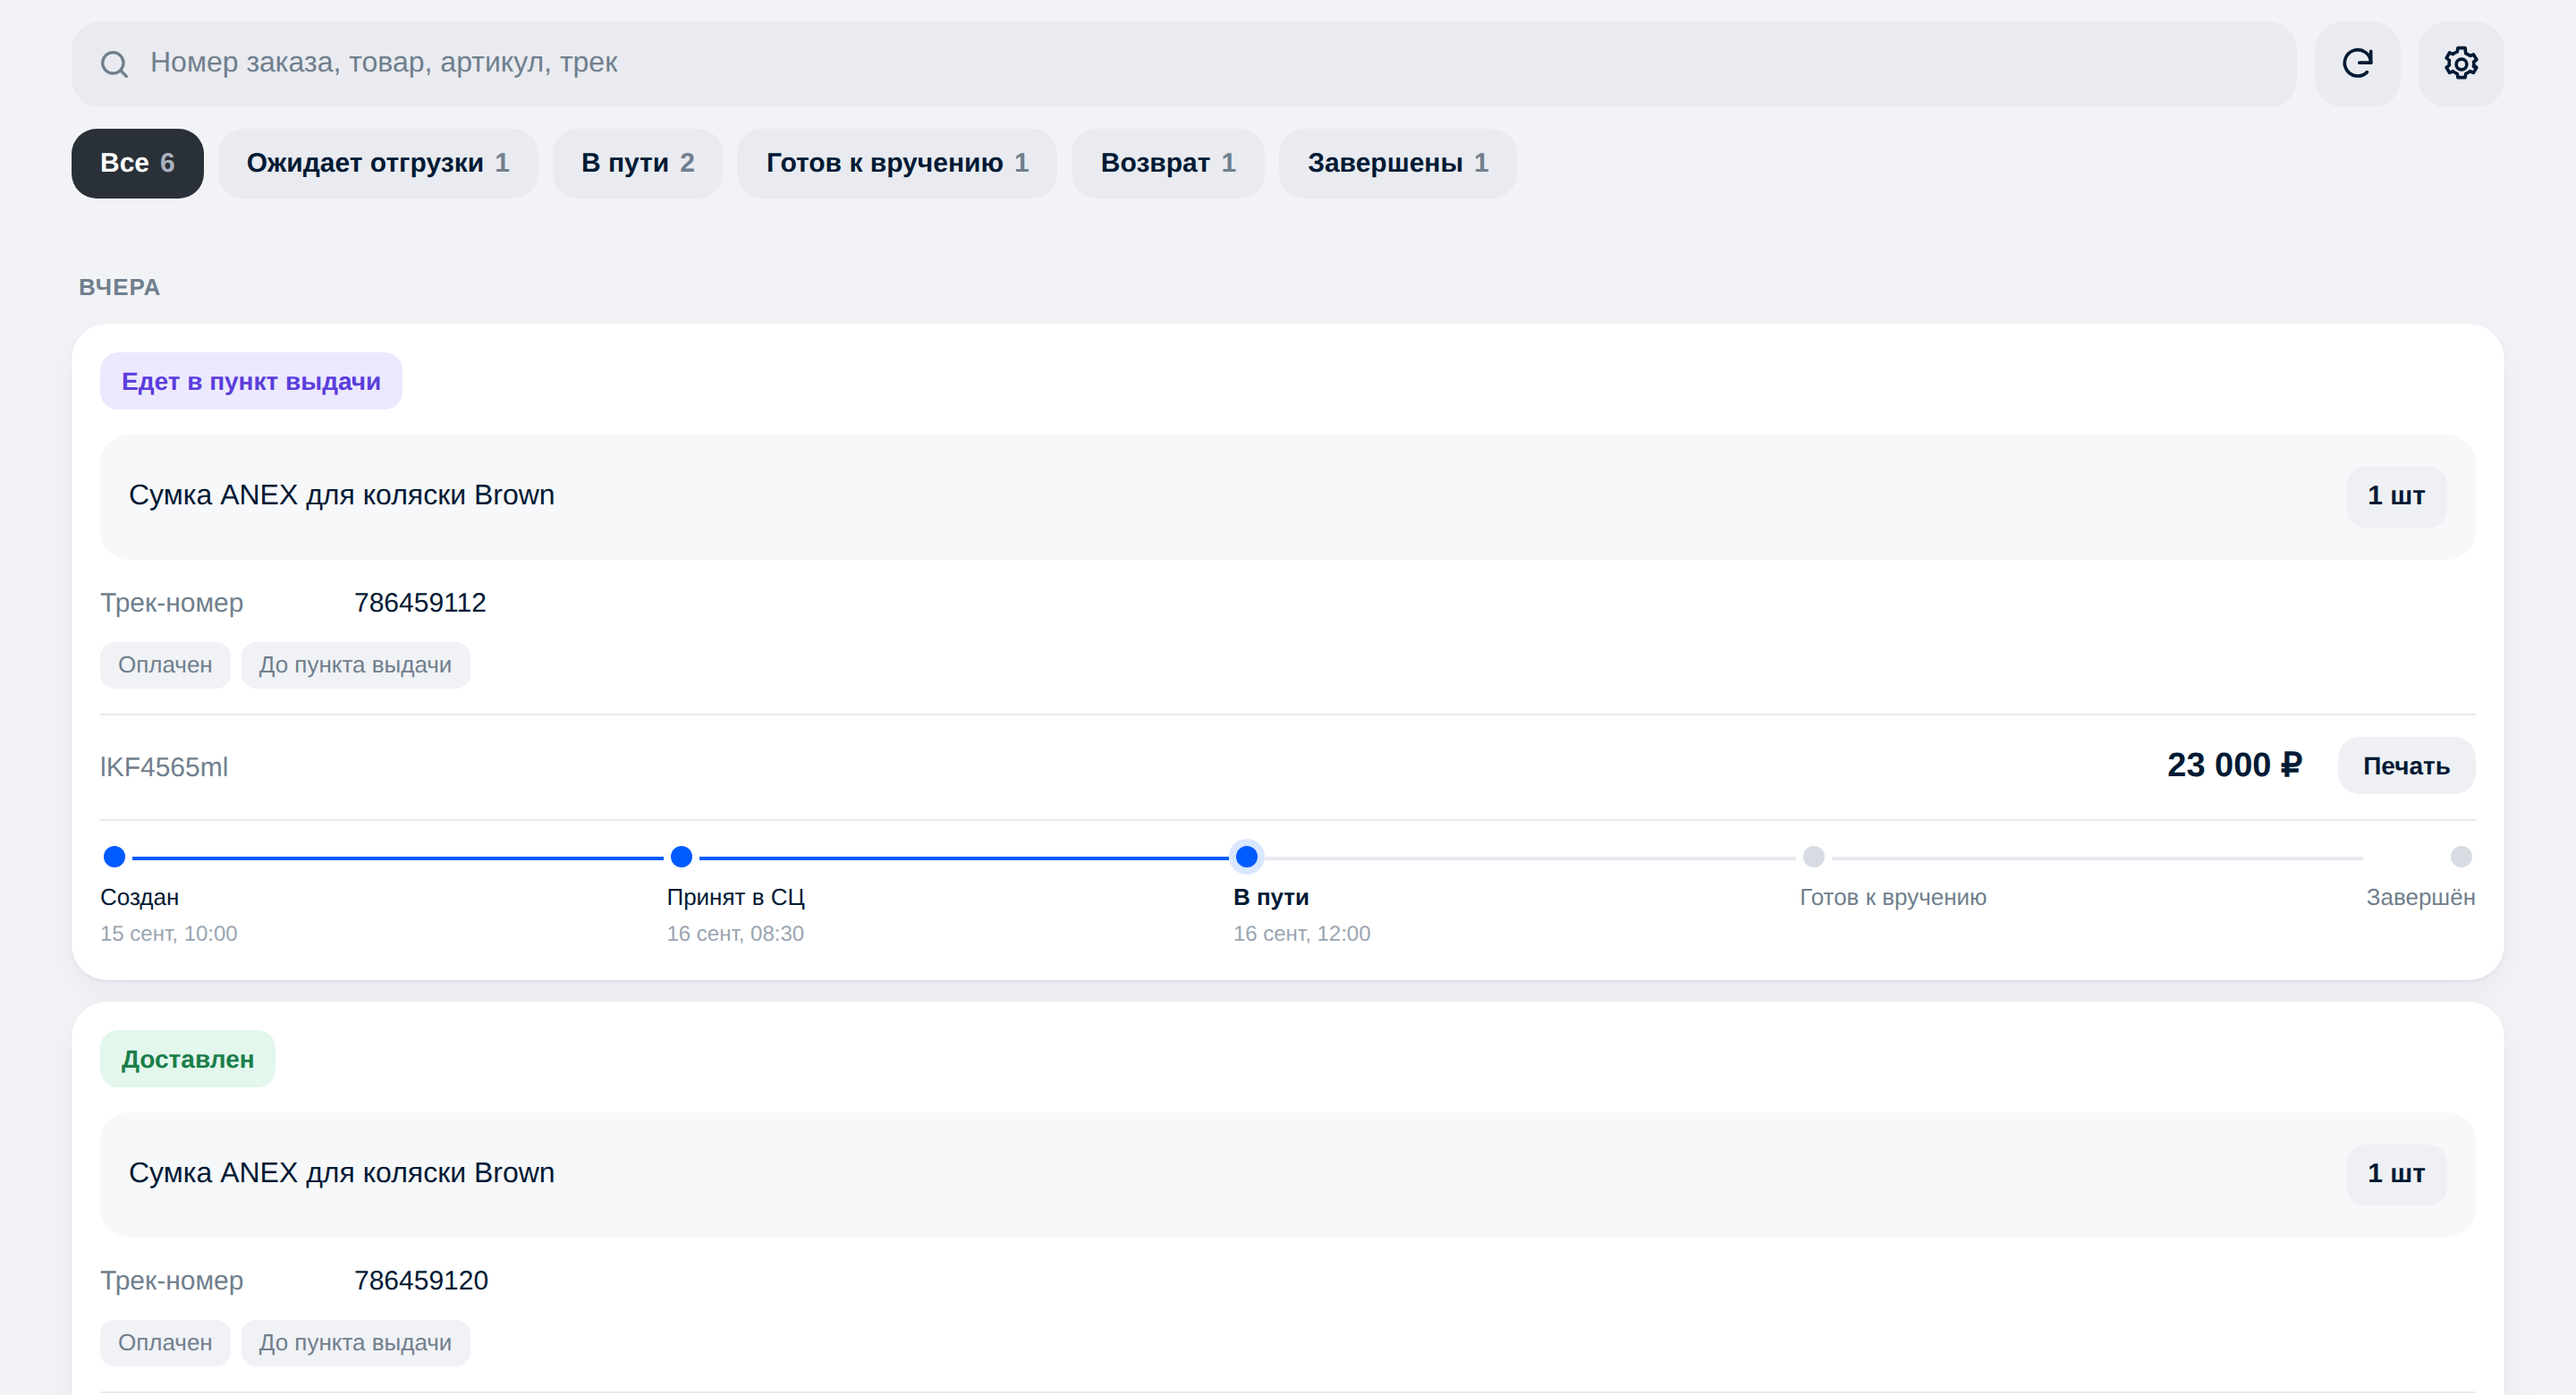
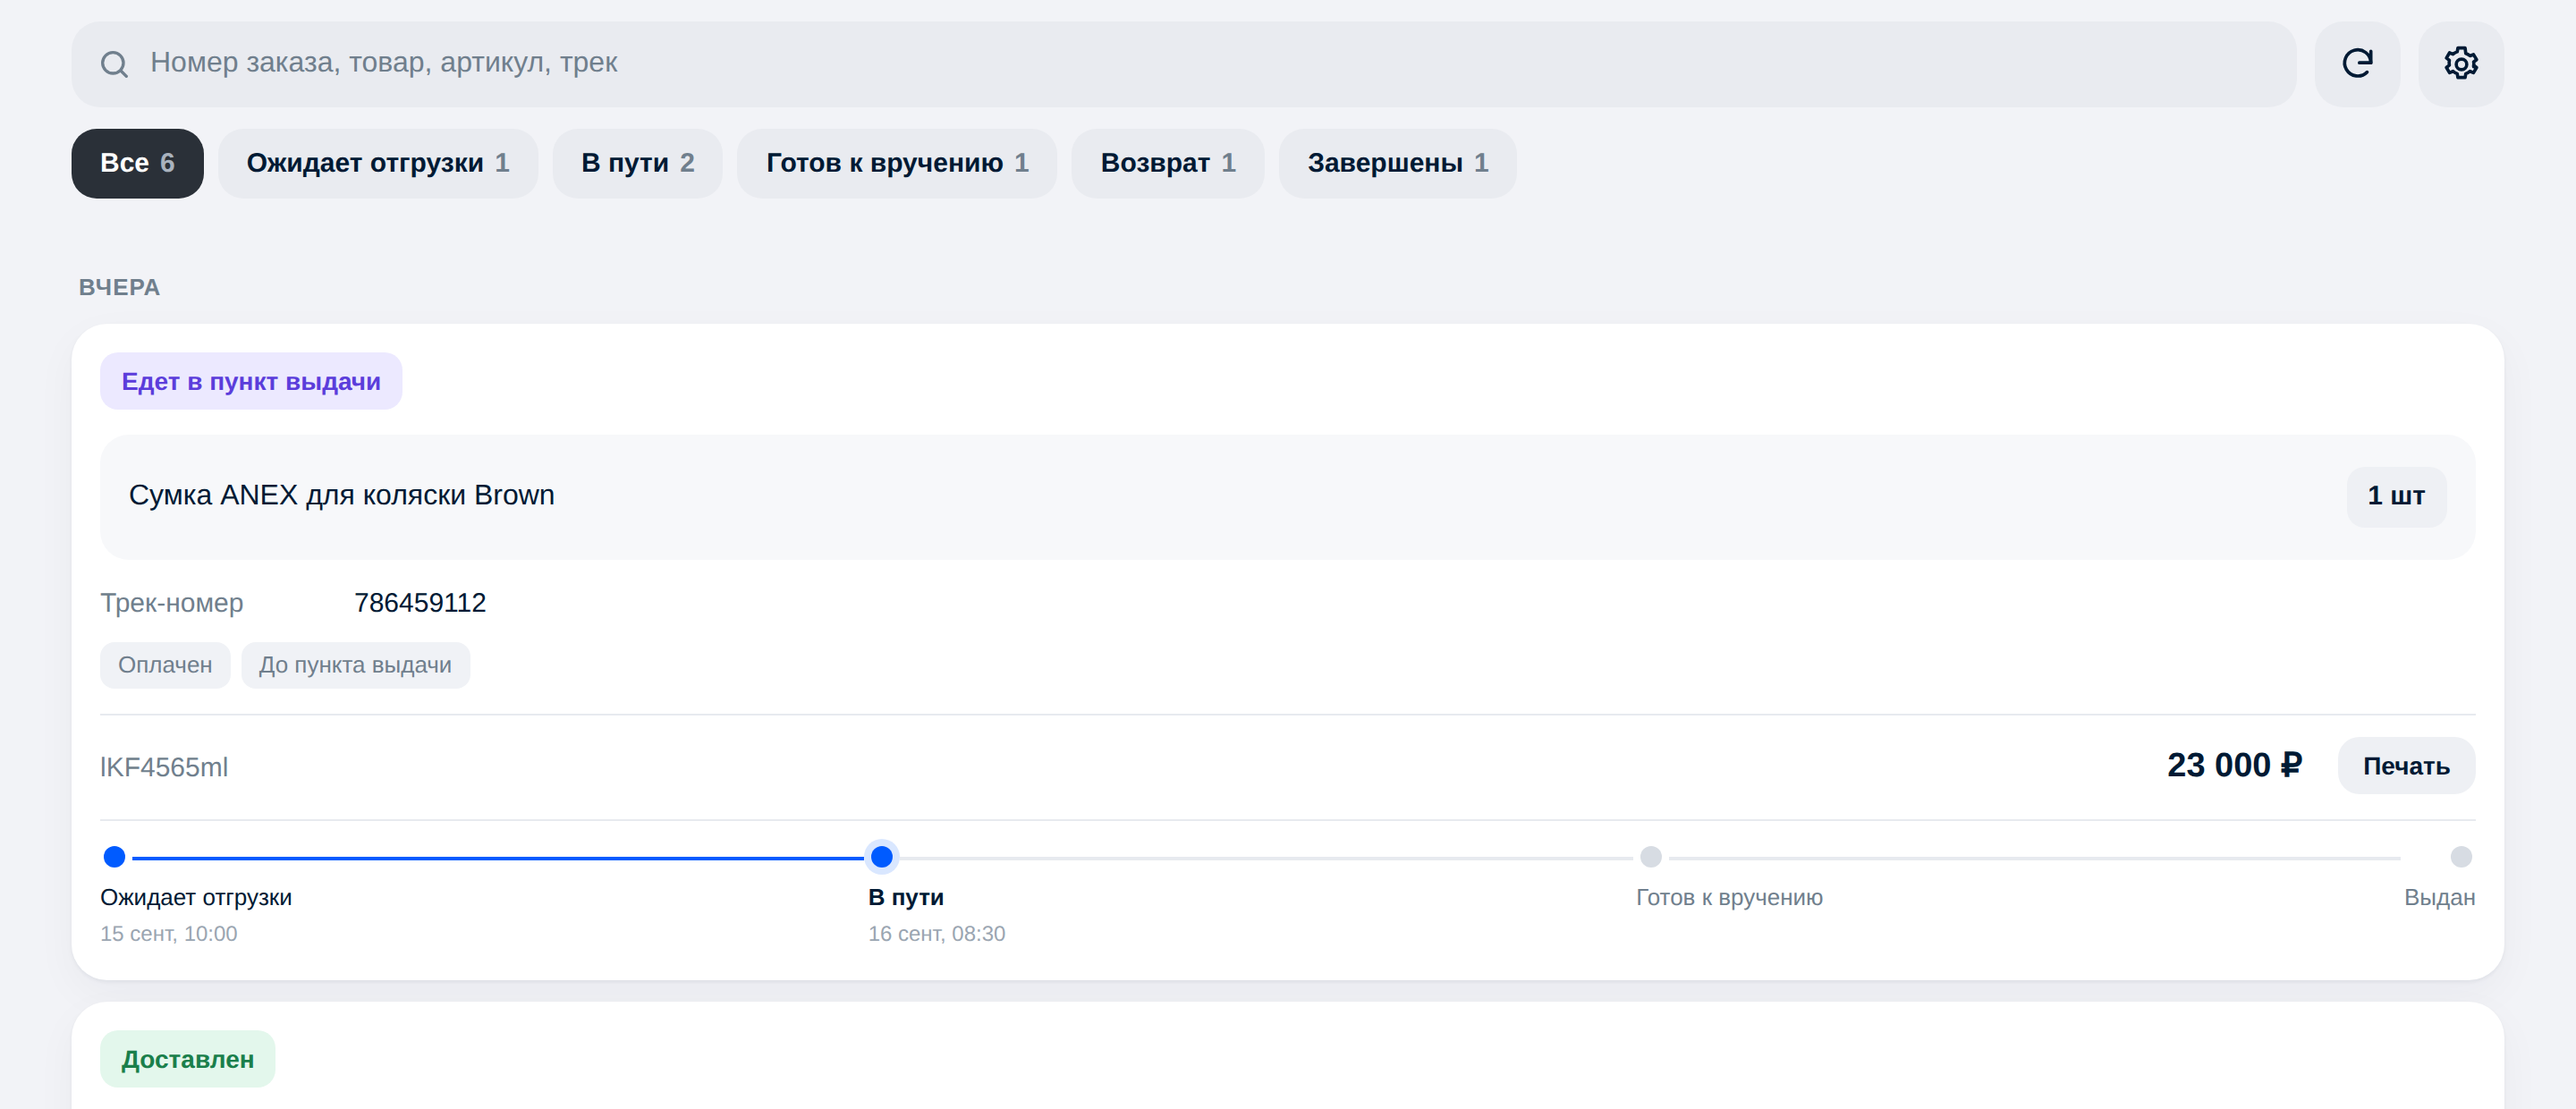
Свести шкалу к четырём этапам по разделам панели
Ожидает отгрузки → В пути → Готов к вручению → Выдан. Этап теперь полностью
определяется разделом заказа, поэтому отдельная таблица соответствий убрана:
одна раскладка вместо двух, которые могли разойтись.

Возврат по-прежнему занимает место третьего этапа с подписью «Возврат»,
а заказ, закрытый не выдачей, подписывается по факту: «Отменён» или
«Возвращён в магазин».

Claude-Session: https://claude.ai/code/session_01LU9Db7rc7RKmFuVRERJTjp

diff --git a/server/statuses.js b/server/statuses.js
@@ -21,61 +21,19 @@ export const TABS = [
 
 export const TAB_IDS = TABS.map((t) => t.id);
 
-// Этапы для шкалы в карточке: фиксированная цепочка, которая заполняется
-// по мере движения заказа. Четвёртый этап зависит от пути: обычный заказ
-// ждёт получателя, возвратный едет обратно в магазин.
+// Этапы шкалы в карточке повторяют разделы панели: заказ ждёт отгрузки, едет,
+// ждёт получателя, выдан. Возврат занимает место третьего этапа, но
+// подписывается иначе — длина шкалы у всех заказов одинаковая.
 export const STAGES = [
-  { id: 'created', title: 'Создан' },
-  { id: 'sorting', title: 'Принят в СЦ' },
+  { id: 'awaiting', title: 'Ожидает отгрузки' },
   { id: 'transit', title: 'В пути' },
   { id: 'ready', title: 'Готов к вручению', returnTitle: 'Возврат' },
-  { id: 'done', title: 'Завершён' },
+  { id: 'done', title: 'Выдан' },
 ];
 
-const STAGE_BY_STATUS = {
-  VALIDATING_ERROR: 'created',
-  CREATED: 'created',
-  DELIVERY_PROCESSING_STARTED: 'created',
-  SORTING_CENTER_LOADED: 'created',
-
-  SORTING_CENTER_AT_START: 'sorting',
-  SORTING_CENTER_PREPARED: 'sorting',
-  SORTING_CENTER_TRANSMITTED: 'sorting',
-
-  DELIVERY_AT_START: 'transit',
-  DELIVERY_AT_START_SORT: 'transit',
-  DELIVERY_TRANSPORTATION: 'transit',
-  DELIVERY_TRANSPORTATION_RECIPIENT: 'transit',
-  DELIVERY_TIME_INTERVALS_UPDATED: 'transit',
-  DELIVERY_ATTEMPT_FAILED: 'transit',
-
-  DELIVERY_ARRIVED_PICKUP_POINT: 'ready',
-  CONFIRMATION_CODE_RECEIVED: 'ready',
-  PARTICULARLY_DELIVERED: 'ready',
-
-  // Возврат занимает то же место в цепочке, но подписывается иначе.
-  SORTING_CENTER_RETURN_RETURNED: 'return',
-  RETURN_TRANSPORTATION_STARTED: 'return',
-  RETURN_ARRIVED_DELIVERY: 'return',
-  RETURN_READY_FOR_PICKUP: 'return',
-
-  DELIVERY_TRANSMITTED_TO_RECIPIENT: 'done',
-  DELIVERY_DELIVERED: 'done',
-  RETURN_RETURNED: 'done',
-  CANCELLED: 'done',
-};
-
-// Этап для статуса, которого ещё нет в каталоге, — по разделу панели.
-const STAGE_BY_GROUP = {
-  awaiting: 'created',
-  transit: 'transit',
-  ready: 'ready',
-  return: 'return',
-  done: 'done',
-};
-
+// Этап полностью определяется разделом: отдельной таблицы не нужно.
 export function stageOf(code, group) {
-  return STAGE_BY_STATUS[code] || STAGE_BY_GROUP[group] || 'created';
+  return STAGES.some((stage) => stage.id === group) || group === 'return' ? group : 'awaiting';
 }
 
 const STATUS_MAP = {
@@ -167,7 +125,7 @@ export function resolveStatus(status, description) {
   return {
     code,
     group: 'awaiting',
-    stage: 'created',
+    stage: 'awaiting',
     label: description || code || 'Без статуса',
     description: description || '',
     major: false,

diff --git a/public/app.js b/public/app.js
@@ -118,10 +118,12 @@ function buildStages(order, history) {
     return event ? event.at : '';
   };
 
+  // Заказ, закрытый не выдачей (отменён, возвращён), подписывается по факту.
+  const finishedOtherwise = !['DELIVERY_DELIVERED', 'DELIVERY_TRANSMITTED_TO_RECIPIENT'].includes(order.status.code);
+
   return stages.map((stage, index) => {
     let title = stage.id === 'ready' && isReturn ? stage.returnTitle || stage.title : stage.title;
-    // У последнего этапа подпись уточняется: отменён, возвращён или доставлен.
-    if (stage.id === 'done' && index === currentIndex) title = order.status.label;
+    if (stage.id === 'done' && index === currentIndex && finishedOtherwise) title = order.status.label;
 
     return {
       title,
